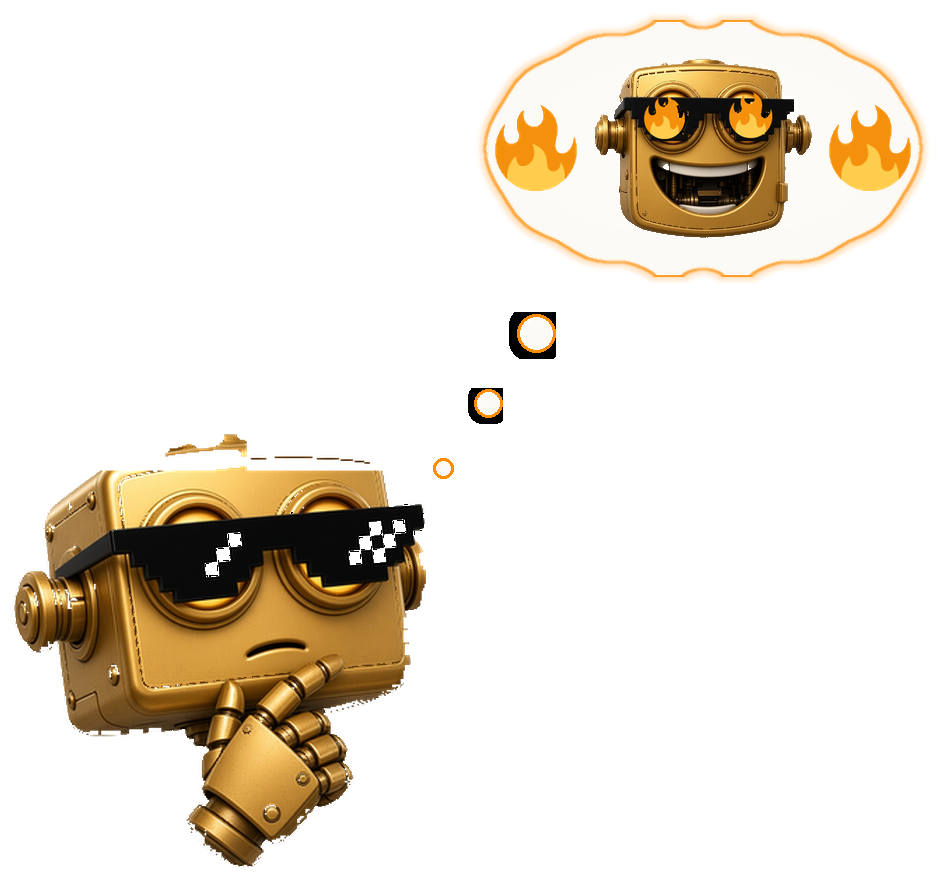
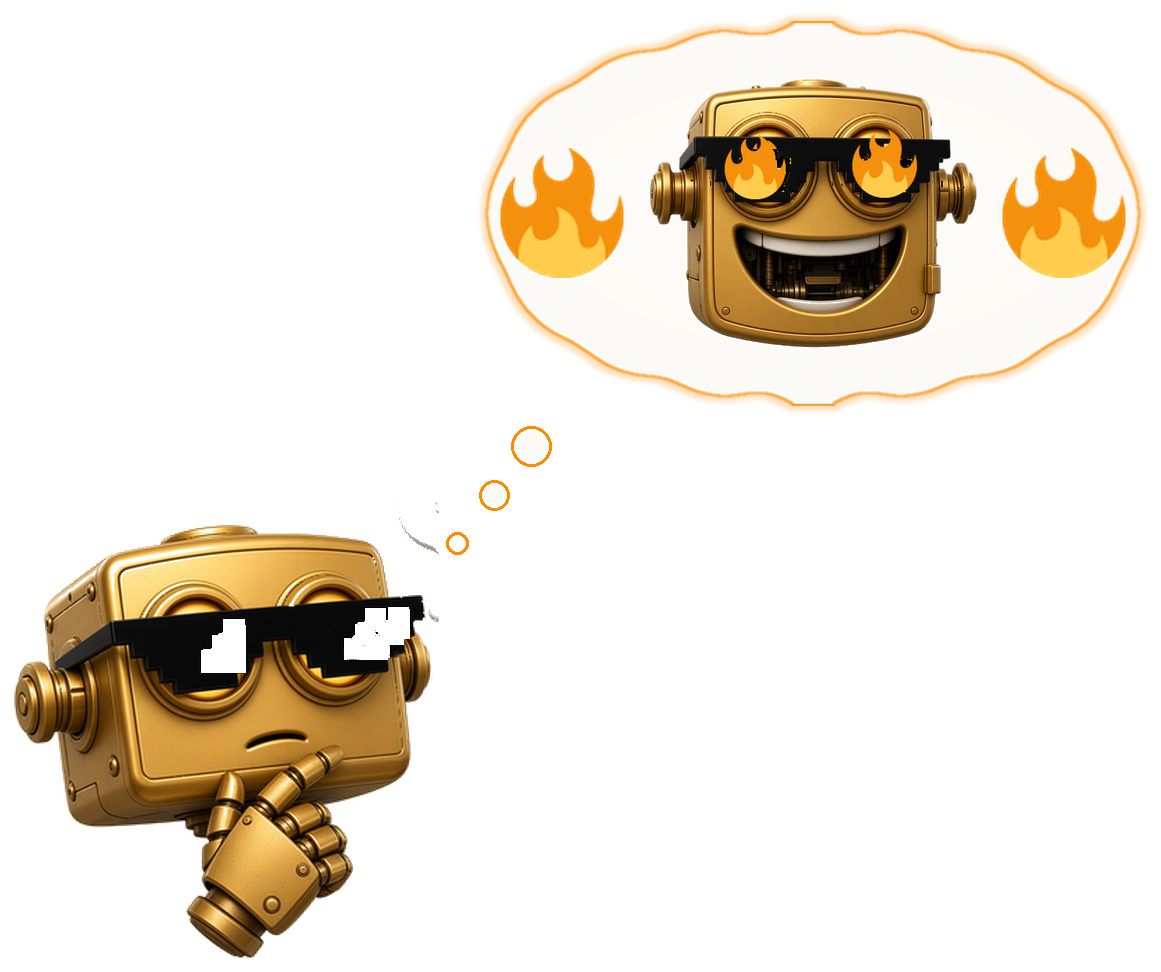
Holding page robot graphic v21: cleaner edges, solid glints, larger bubble, tighter trail

diff --git a/index.html b/index.html
@@ -149,7 +149,7 @@
 <body>
   <main class="wrap">
     <div class="badge">NOT A FLAMETHROWER · <span>coming soon</span></div>
-    <img class="hero" src="robot.png?v=19" alt="Crowded Tram Business Robot with pixel shades" />
+    <img class="hero" src="robot.png?v=21" alt="Crowded Tram Business Robot with pixel shades" />
     <h1>NOT<em>GROK</em>TOKEN</h1>
     <p class="tag">50% wisecrack genius. 50% heart. Community culture, memes, and swag — stuffed robots & tees on the way. No rush. No noise.</p>
     <div class="split">
